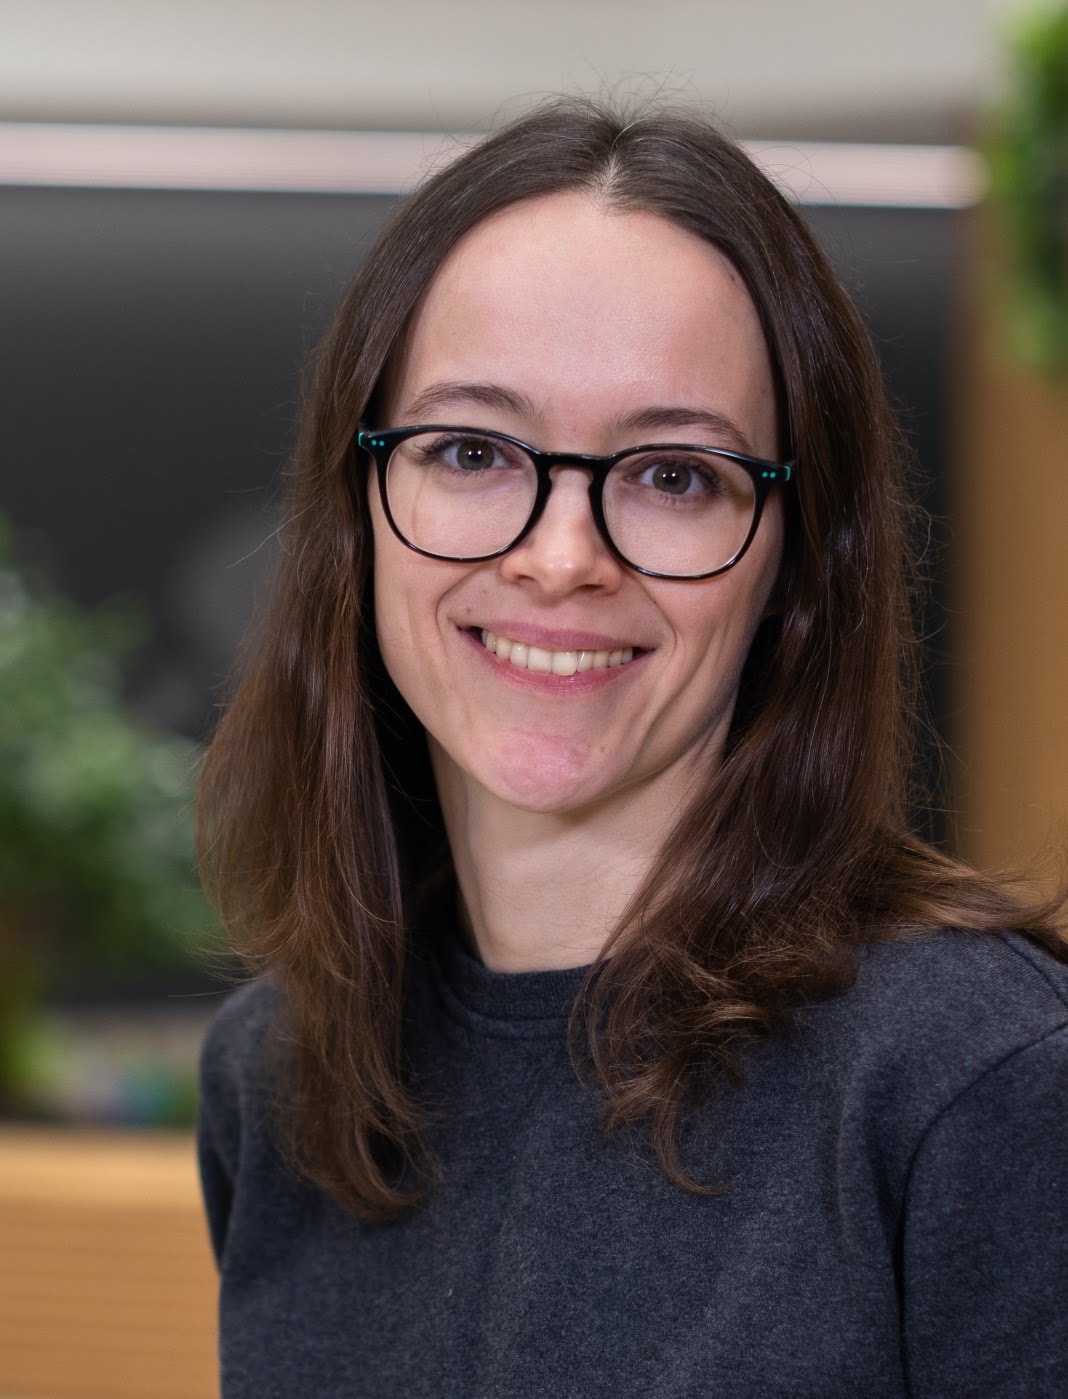
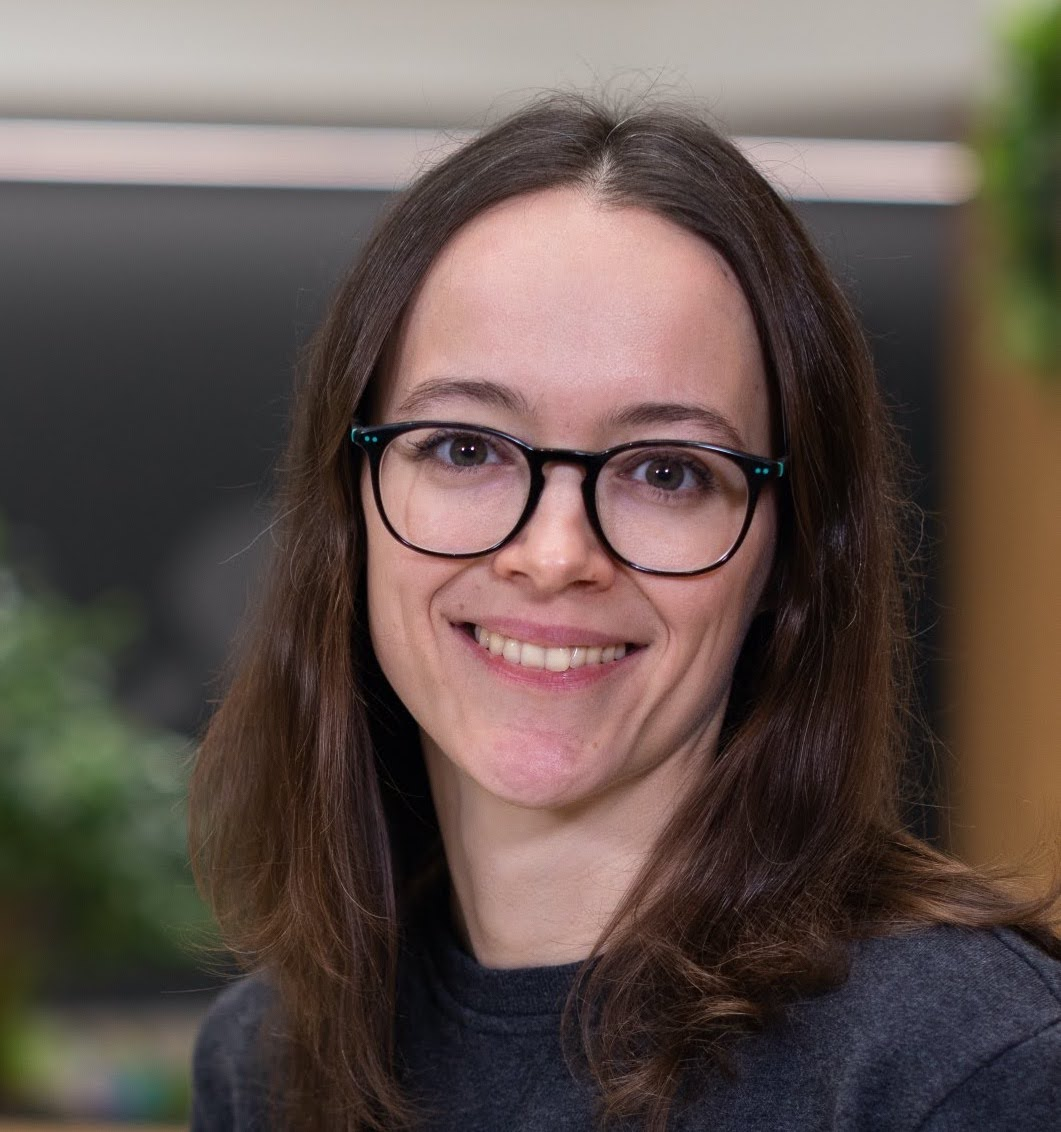
Minor css improvements: proportion of the side bar changed to 30%, profile pic changed to round from oval

diff --git a/themes/maria/assets/css/style.css b/themes/maria/assets/css/style.css
@@ -156,12 +156,12 @@ a:hover, a:active {
 .content {
   height: auto;
   float: right;
-  width: 60%;
+  width: 70%;
   margin-top: 60px;
 }
 
 .page-top {
-  width: 60%;
+  width: 70%;
   position: fixed;
   right: 0;
   z-index: 3;
@@ -221,7 +221,7 @@ a:hover, a:active {
 }
 
 .sidebar {
-  width: 40%;
+  width: 30%;
   -webkit-background-size: cover;
   background-size: cover;
   background-color: var(--bg-color);
@@ -243,7 +243,7 @@ a:hover, a:active {
   margin: 0 auto;
 }
 .sidebar .logo-title .title img {
-  width: 127px;
+  width: 150px;
   border-radius: 50%;
 }
 .sidebar .logo-title .title h3 {

diff --git a/content/about/index.md b/content/about/index.md
@@ -14,6 +14,3 @@ Devoxx, ConFoo, and many more.
 
 I'm also co-organizing [PyData Montreal](https://www.meetup.com/PyData-MTL/) - a community for like-minded data folks to learn, 
 share and network. 
-
-
-() 
